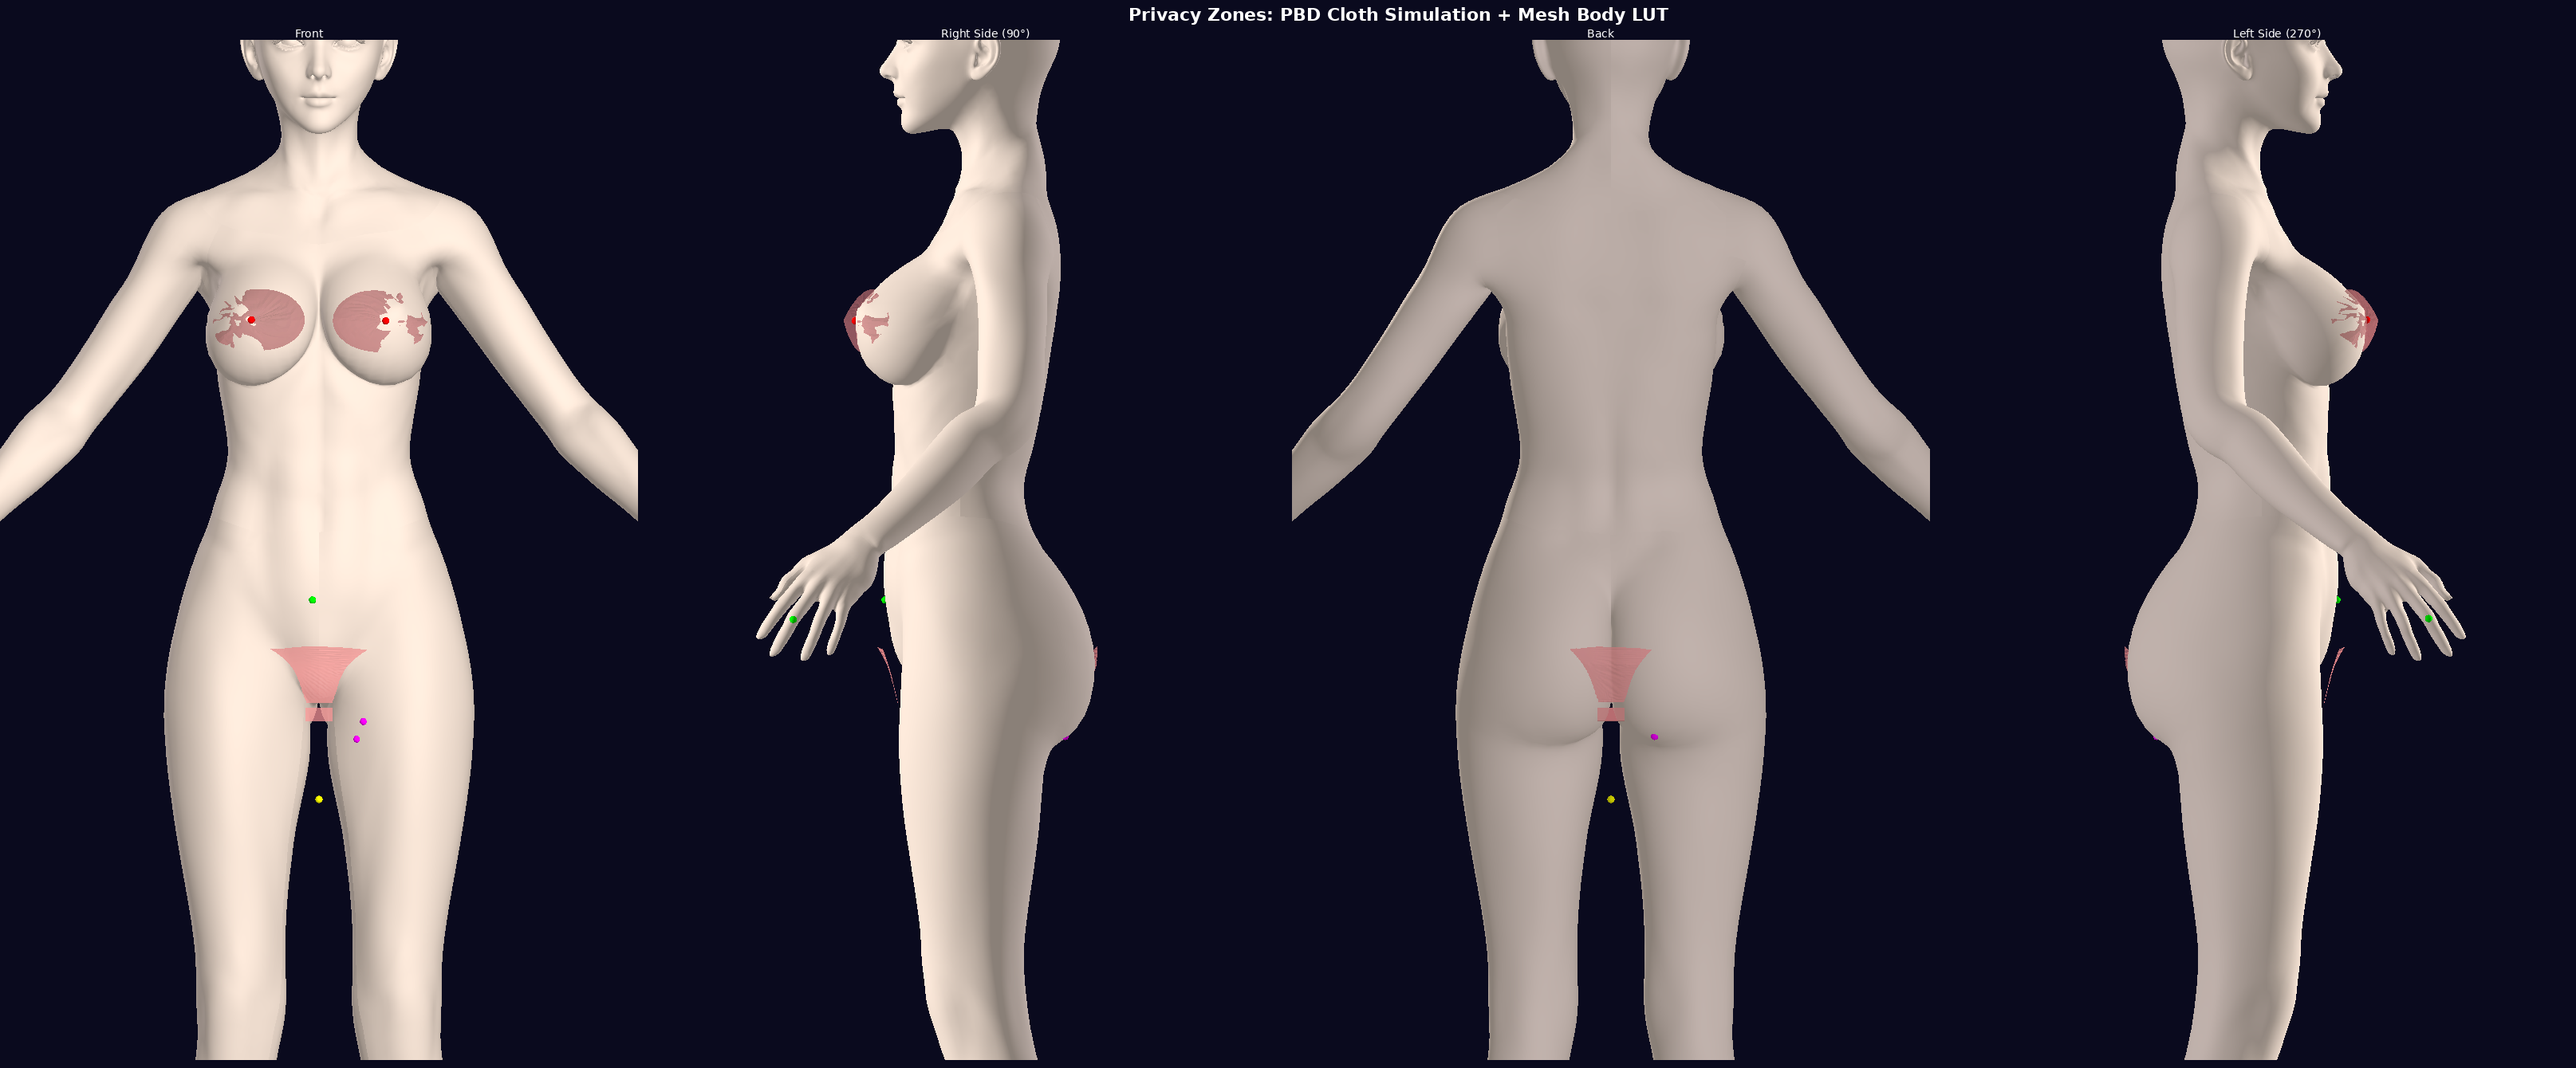
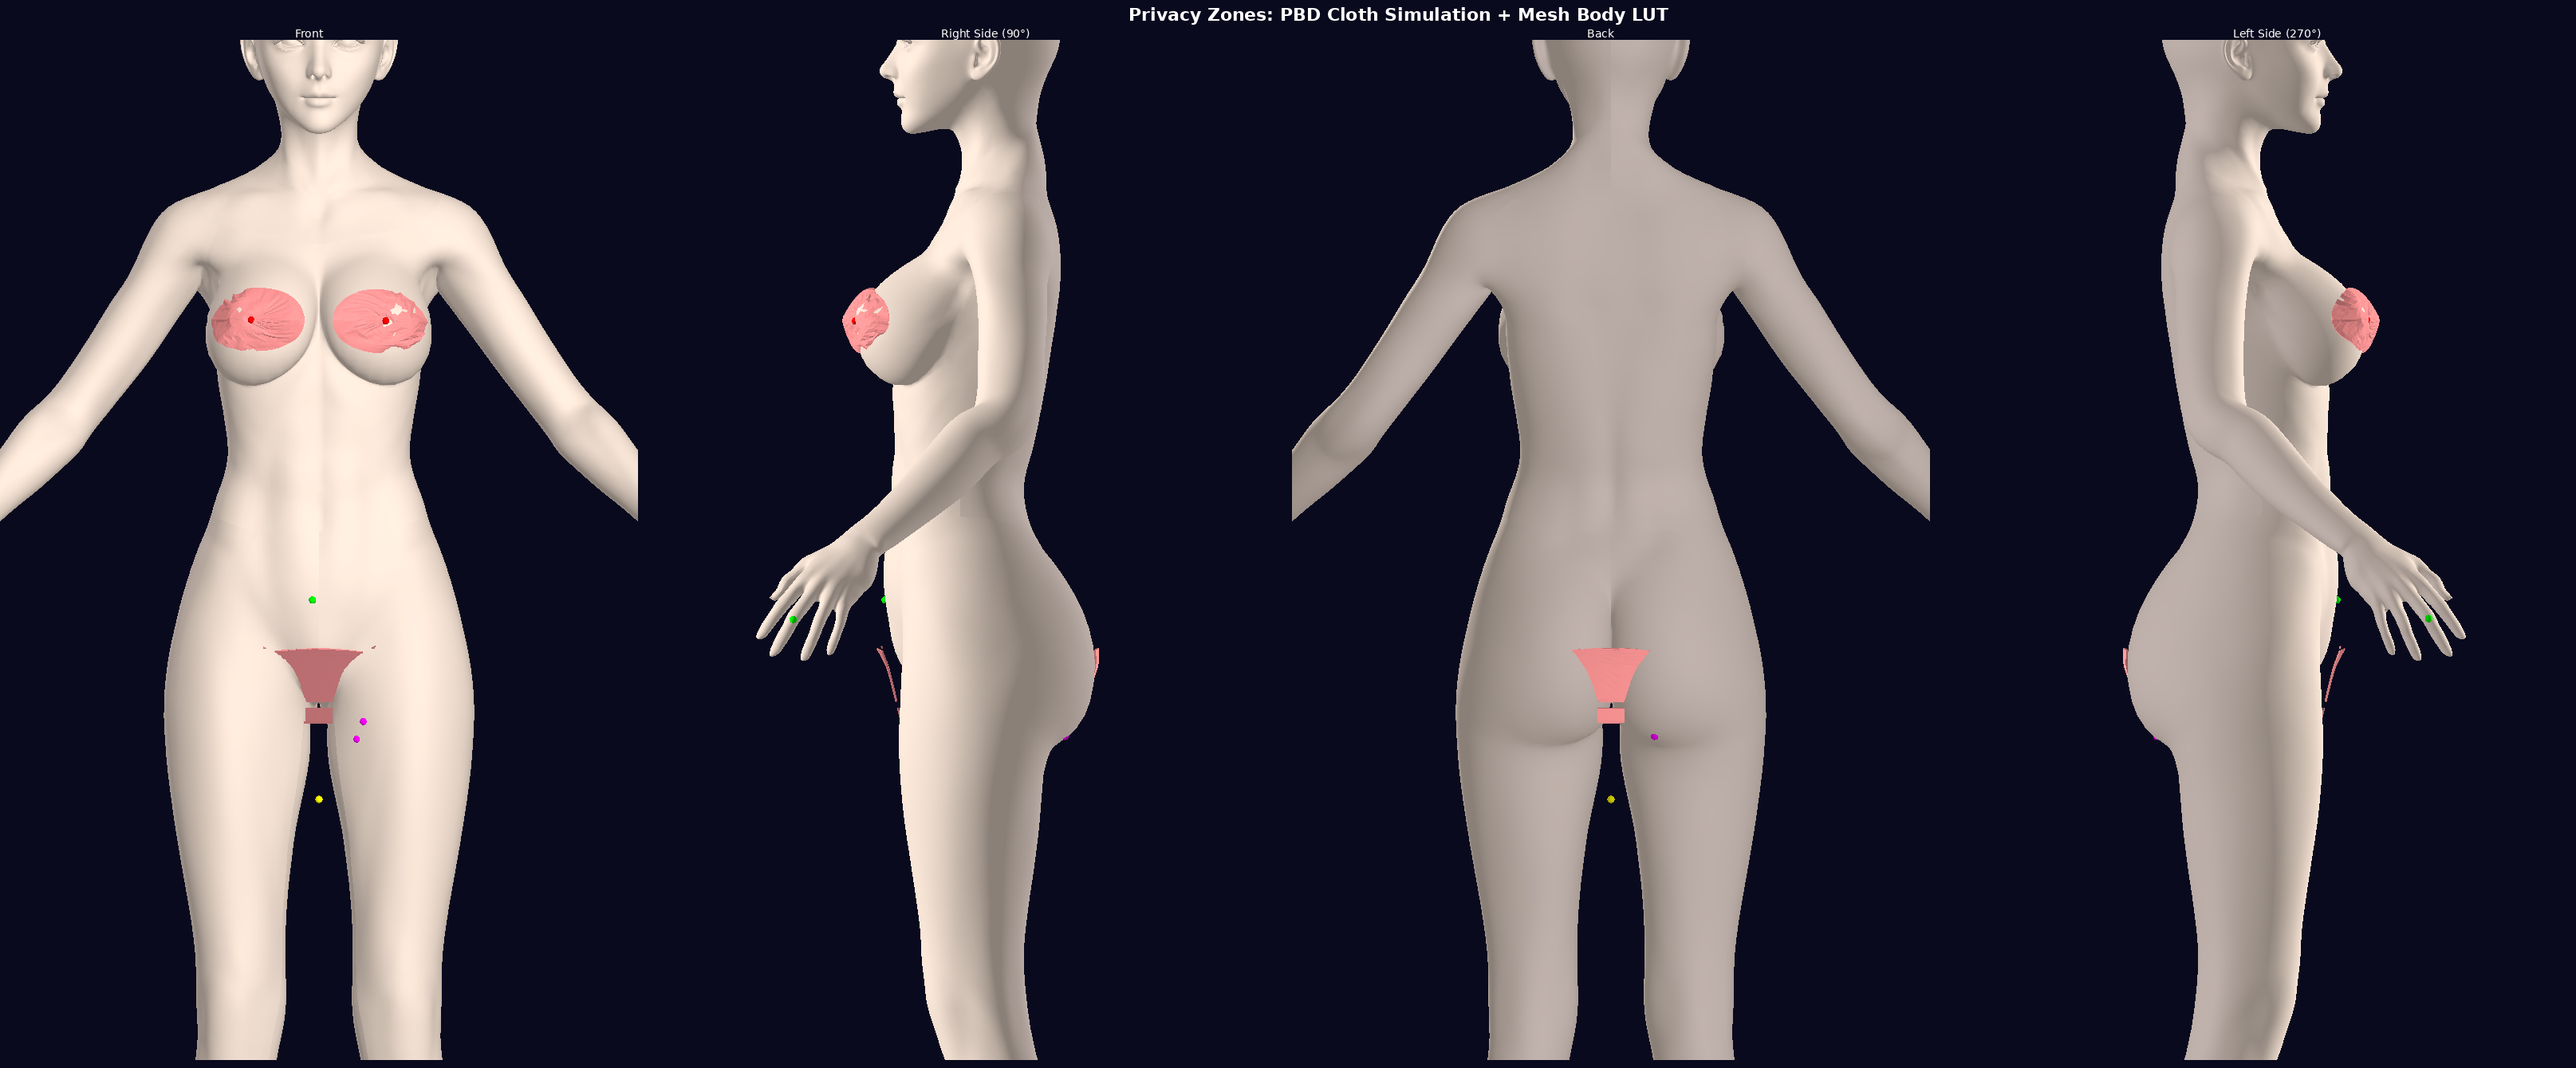
fix: add 2mm fabric thickness + fix panel mesh break
Two issues fixed:
1. Fabric was infinitely thin causing z-fighting (spider web pattern)
   at high precision. Added thicken_mesh() to extrude all fabric into
   2mm solid shells with inner/outer faces + side edge quads.

2. Front panel had a clean break from MplPath.contains_point failing
   at grid boundaries. Fixed by using batch contains_points() with
   radius tolerance (0.6x grid spacing) and explicit path closure.

Also made fabric fully opaque (alpha 255) to prevent body showing
through.

https://claude.ai/code/session_01CGx4kTKQHwBokzENgDgNYu

diff --git a/debug_privacy_zones.py b/debug_privacy_zones.py
@@ -24,6 +24,75 @@ from bikini_generator.garment.loop_generator import BodySurface
 
 
 # ---------------------------------------------------------------------------
+# Mesh thickness: extrude thin surface into solid shell
+# ---------------------------------------------------------------------------
+
+def thicken_mesh(mesh, thickness=0.002):
+    """Extrude a surface mesh into a solid shell with given thickness.
+
+    Creates outer surface offset along vertex normals, connects edges
+    with side quads, producing a watertight solid. This prevents z-fighting
+    with the body mesh that occurs with infinitely thin surfaces.
+    """
+    from collections import Counter
+
+    verts = mesh.vertices.copy()
+    faces = mesh.faces.copy()
+    n = len(verts)
+
+    # Compute vertex normals from face normals
+    normals = np.zeros_like(verts)
+    for f in faces:
+        v0, v1, v2 = verts[f[0]], verts[f[1]], verts[f[2]]
+        fn = np.cross(v1 - v0, v2 - v0)
+        normals[f[0]] += fn
+        normals[f[1]] += fn
+        normals[f[2]] += fn
+    lengths = np.linalg.norm(normals, axis=1, keepdims=True)
+    normals /= np.maximum(lengths, 1e-8)
+
+    # Ensure normals point outward (away from body center axis)
+    radial = verts.copy()
+    radial[:, 1] = 0
+    dots = np.sum(normals * radial, axis=1)
+    normals[dots < 0] *= -1
+
+    # Outer surface = original + normal * thickness
+    outer_verts = verts + normals * thickness
+    all_verts = np.vstack([verts, outer_verts])
+
+    # Inner faces (original winding) + outer faces (reversed, offset by n)
+    outer_faces = faces[:, ::-1] + n
+    all_faces_list = [faces, outer_faces]
+
+    # Side faces: connect boundary edges (edges in only 1 face)
+    edge_count = Counter()
+    for f in faces:
+        for i in range(3):
+            e = tuple(sorted([f[i], f[(i + 1) % 3]]))
+            edge_count[e] += 1
+
+    side_faces = []
+    for (a, b), c in edge_count.items():
+        if c == 1:
+            side_faces.append([a, b, a + n])
+            side_faces.append([b, b + n, a + n])
+
+    if side_faces:
+        all_faces_list.append(np.array(side_faces, dtype=np.int32))
+
+    all_faces = np.vstack(all_faces_list)
+    thick = trimesh.Trimesh(vertices=all_verts, faces=all_faces, process=False)
+
+    # Copy vertex colors to both inner and outer surfaces
+    if hasattr(mesh.visual, 'vertex_colors') and mesh.visual.vertex_colors is not None:
+        colors = mesh.visual.vertex_colors[:n]
+        thick.visual.vertex_colors = np.tile(
+            colors[0], (len(all_verts), 1))  # uniform color
+    return thick
+
+
+# ---------------------------------------------------------------------------
 # Body mesh LUT builder (uses actual mesh, not BodySurface ellipsoidal model)
 # ---------------------------------------------------------------------------
 
@@ -280,8 +349,15 @@ def make_back_panel_outline(lm, body_surface):
 
 
 def create_panel_mesh(body_surface, outline_yt, n_grid=40, offset=0.003):
-    """Create a triangulated mesh for a panel on the body surface."""
+    """Create a triangulated mesh for a panel on the body surface.
+
+    Uses contains_points (batch) with radius tolerance to avoid
+    boundary misses that create clean breaks in the mesh.
+    """
     outline_arr = np.array(outline_yt)
+    # Ensure path is explicitly closed
+    if not np.allclose(outline_arr[0], outline_arr[-1]):
+        outline_arr = np.vstack([outline_arr, outline_arr[0:1]])
     path = MplPath(outline_arr)
 
     y_min, y_max = outline_arr[:, 0].min(), outline_arr[:, 0].max()
@@ -290,25 +366,35 @@ def create_panel_mesh(body_surface, outline_yt, n_grid=40, offset=0.003):
     y_vals = np.linspace(y_min - 0.005, y_max + 0.005, n_grid)
     th_vals = np.linspace(th_min - 0.05, th_max + 0.05, n_grid * 2)
 
+    # Batch contains_points with radius tolerance to avoid boundary gaps
+    grid_points = np.array([(y, th) for y in y_vals for th in th_vals])
+    # Radius tolerance: half the grid spacing to include boundary points
+    tol = max((y_vals[1] - y_vals[0]), (th_vals[1] - th_vals[0])) * 0.6
+    inside = path.contains_points(grid_points, radius=tol)
+
     vertices = []
     grid_idx = {}
+    n_th = len(th_vals)
 
-    for iy, y in enumerate(y_vals):
-        for it, th in enumerate(th_vals):
-            if path.contains_point((y, th)):
-                idx = len(vertices)
-                grid_idx[(iy, it)] = idx
-                r = body_surface.get_surface_radius(y, th) + offset
-                x = -np.sin(th) * r
-                z = np.cos(th) * r
-                vertices.append([x, y, z])
+    for idx_flat, is_in in enumerate(inside):
+        if is_in:
+            iy = idx_flat // n_th
+            it = idx_flat % n_th
+            y = y_vals[iy]
+            th = th_vals[it]
+            vidx = len(vertices)
+            grid_idx[(iy, it)] = vidx
+            r = body_surface.get_surface_radius(y, th) + offset
+            x = -np.sin(th) * r
+            z = np.cos(th) * r
+            vertices.append([x, y, z])
 
     if len(vertices) < 3:
         return None
 
     faces = []
     for iy in range(n_grid - 1):
-        for it in range(len(th_vals) - 1):
+        for it in range(n_th - 1):
             i00 = grid_idx.get((iy, it))
             i10 = grid_idx.get((iy + 1, it))
             i01 = grid_idx.get((iy, it + 1))
@@ -323,7 +409,7 @@ def create_panel_mesh(body_surface, outline_yt, n_grid=40, offset=0.003):
 
     mesh = trimesh.Trimesh(vertices=np.array(vertices),
                            faces=np.array(faces), process=False)
-    color = [255, 80, 80, 180]
+    color = [255, 80, 80, 255]  # Fully opaque
     mesh.visual.vertex_colors = np.tile(color, (len(vertices), 1))
     return mesh
 
@@ -391,7 +477,7 @@ def create_crotch_strip_mesh(lm, body_surface, hw=0.015, offset=0.003,
 
     mesh = trimesh.Trimesh(vertices=vertices, faces=np.array(faces),
                            process=False)
-    color = [255, 80, 80, 180]
+    color = [255, 80, 80, 255]
     mesh.visual.vertex_colors = np.tile(color, (len(vertices), 1))
     return mesh
 
@@ -435,7 +521,7 @@ def create_breast_zone_mesh(body_surface, center_y, center_theta,
 
     mesh = trimesh.Trimesh(vertices=np.array(vertices),
                            faces=np.array(faces), process=False)
-    color = [255, 80, 80, 180]
+    color = [255, 80, 80, 255]
     mesh.visual.vertex_colors = np.tile(color, (len(vertices), 1))
     return mesh
 
@@ -536,6 +622,17 @@ def main():
     print("Running cloth physics simulation...")
     physics_meshes = [front_mesh, back_mesh, left_breast, right_breast]
     settle_fabric_on_body(physics_meshes, body_verts, num_steps=300)
+
+    # --- Add 2mm thickness to all fabric meshes ---
+    print("Extruding 2mm thickness on all fabric meshes...")
+    all_fabric = [front_mesh, back_mesh, crotch_mesh, left_breast, right_breast]
+    thick_meshes = []
+    for m in all_fabric:
+        if m is not None:
+            thick_meshes.append(thicken_mesh(m, thickness=0.002))
+        else:
+            thick_meshes.append(None)
+    front_mesh, back_mesh, crotch_mesh, left_breast, right_breast = thick_meshes
 
     # --- Build pyrender scene ---
     print("Creating landmark markers...")
